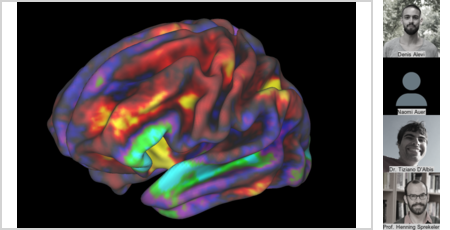
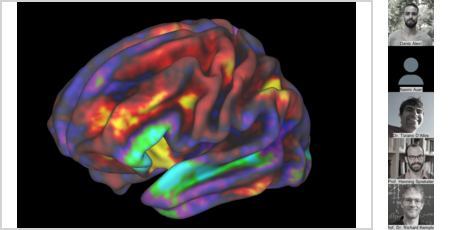
modif missing links and feedback 1

Changed region(s): [[0.84, 0.0, 0.9956, 1.0]]

diff --git a/content/authors/Ricardo-paricio/_index.md b/content/authors/Ricardo-paricio/_index.md
@@ -1,16 +1,16 @@
 ---
 # Display name
-name: Fabian Heim
+name: Ricardo Paricio
 
 # Username (this should match the folder name)
 authors:
-- fabian-heim
+- Ricardo-paricio
 
 # Is this the primary user of the site?
 superuser: false
 
 # Role/position
-role: Post-doc
+role: PhD student
 
 # Organizations/Affiliations
 organizations:
@@ -18,7 +18,7 @@ organizations:
   url: ""
 
 # Short bio (displayed in user profile at end of posts)
-bio: Research assistent in project A06
+bio: PhD student in project A05
 
 # Social/Academic Networking
 # For available icons, see: https://sourcethemes.com/academic/docs/widgets/#icons
@@ -27,13 +27,7 @@ bio: Research assistent in project A06
 social:
 - icon: globe 
   icon_pack: fas 
-  link: https://vallentinlab.com/
-- icon: twitter 
-  icon_pack: fab 
-  link: https://twitter.com/songbirdbrain
-- icon: orcid 
-  icon_pack: ai 
-  link: https://orcid.org/0000-0001-8988-0793
+  link: https://www.jlab.berlin/
 # - icon: envelope
 #   icon_pack: fas
 #   link: '#contact'  # For a direct email link, use "mailto:julien.colomb@fu-berlin.de".
@@ -66,4 +60,4 @@ social:
 # - Visitors
 ---
 
-Songbirdscientist. Postdoctoral researcher investigating inhibitory impact in imitation learning. Coffeelover ☕ and twitcher 🐦🔭
+PhD student in project A05

diff --git a/content/project/A05/index.md b/content/project/A05/index.md
@@ -3,7 +3,7 @@
 
 title: "A05: Target-specific synaptic and network mechanisms of memory consolidation"
 summary: ""
-authors: ["caroline-berlage","ian-erik-stewart","svenja-steinfelder","mikkel-vestergaard","clarissa-whitmire","benjamin-judkewitz","james-poulet"]
+authors: ["Ricardo-paricio","ian-erik-stewart","svenja-steinfelder","mikkel-vestergaard","clarissa-whitmire","benjamin-judkewitz","james-poulet"]
 tags: []
 categories: []
 date: 2019-12-16T10:31:52+01:00

diff --git a/content/project/B01/index.md b/content/project/B01/index.md
@@ -3,7 +3,7 @@
 
 title: "B01: A neuronal basis for systems memory consolidation"
 summary: ""
-authors: ["denis-alevi","naomi-auer","tiziano-d-albis","henning-sprekeler"]
+authors: ["denis-alevi","naomi-auer","tiziano-d-albis","henning-sprekeler","richard-kempter"]
 tags: []
 categories: []
 date: 2019-12-16T10:31:52+01:00
